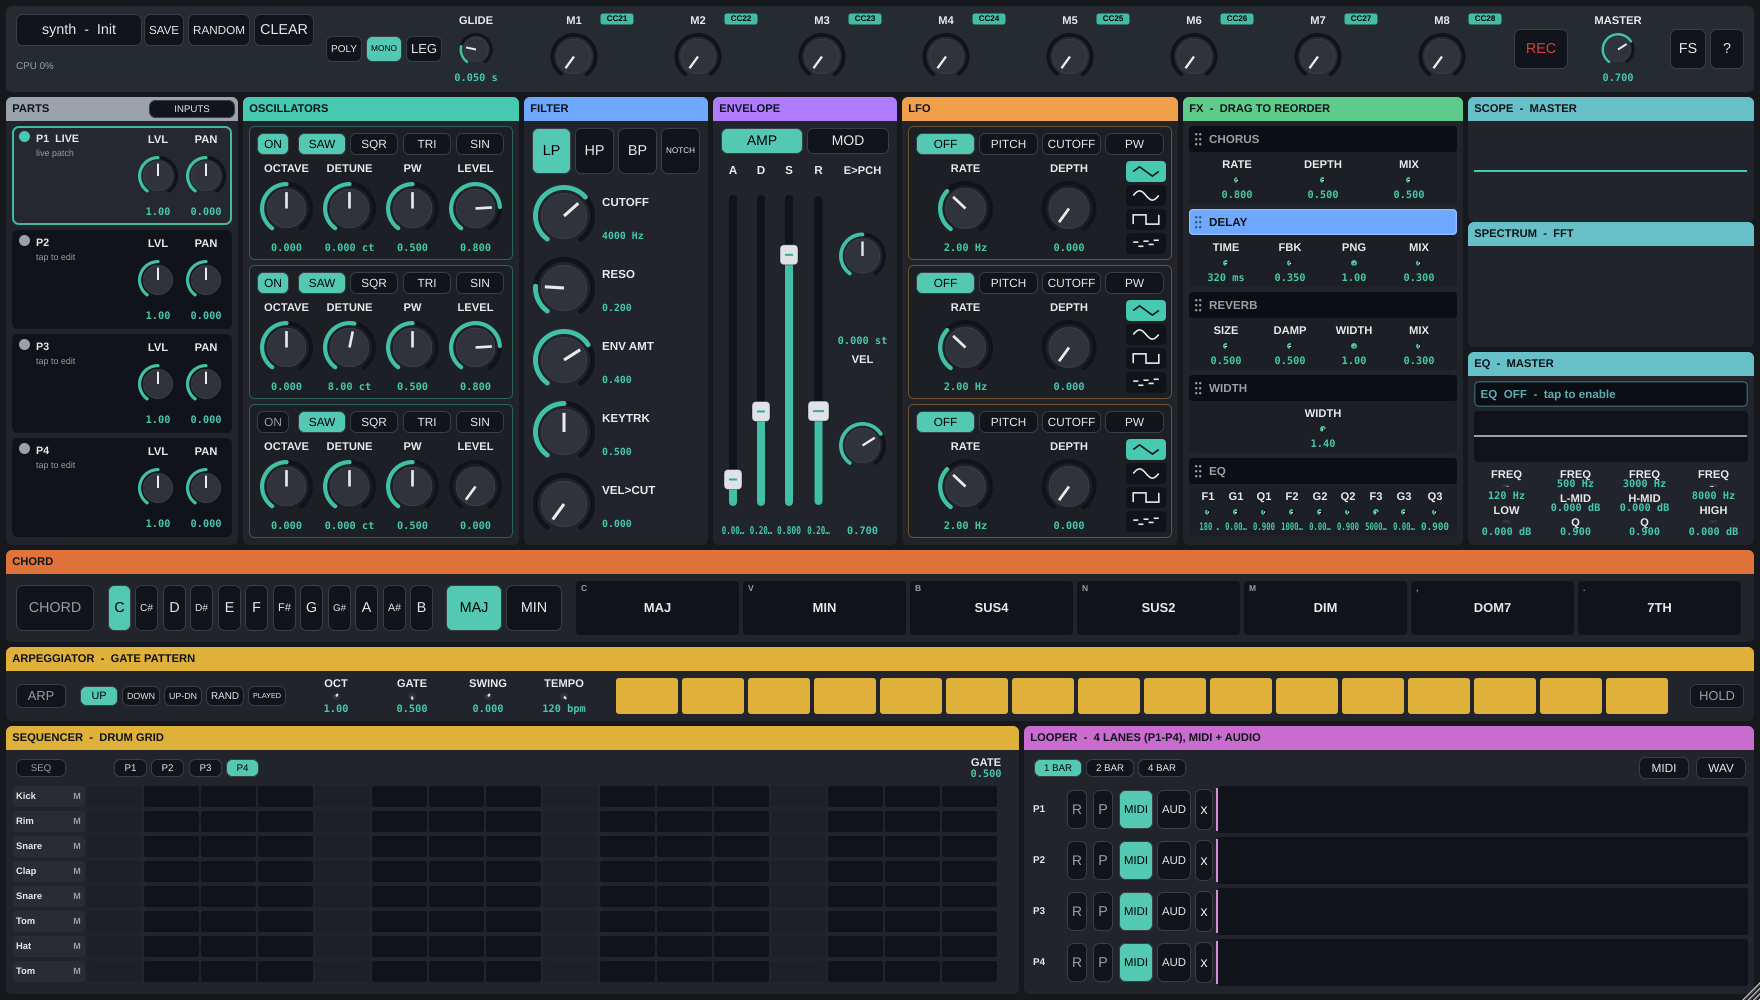
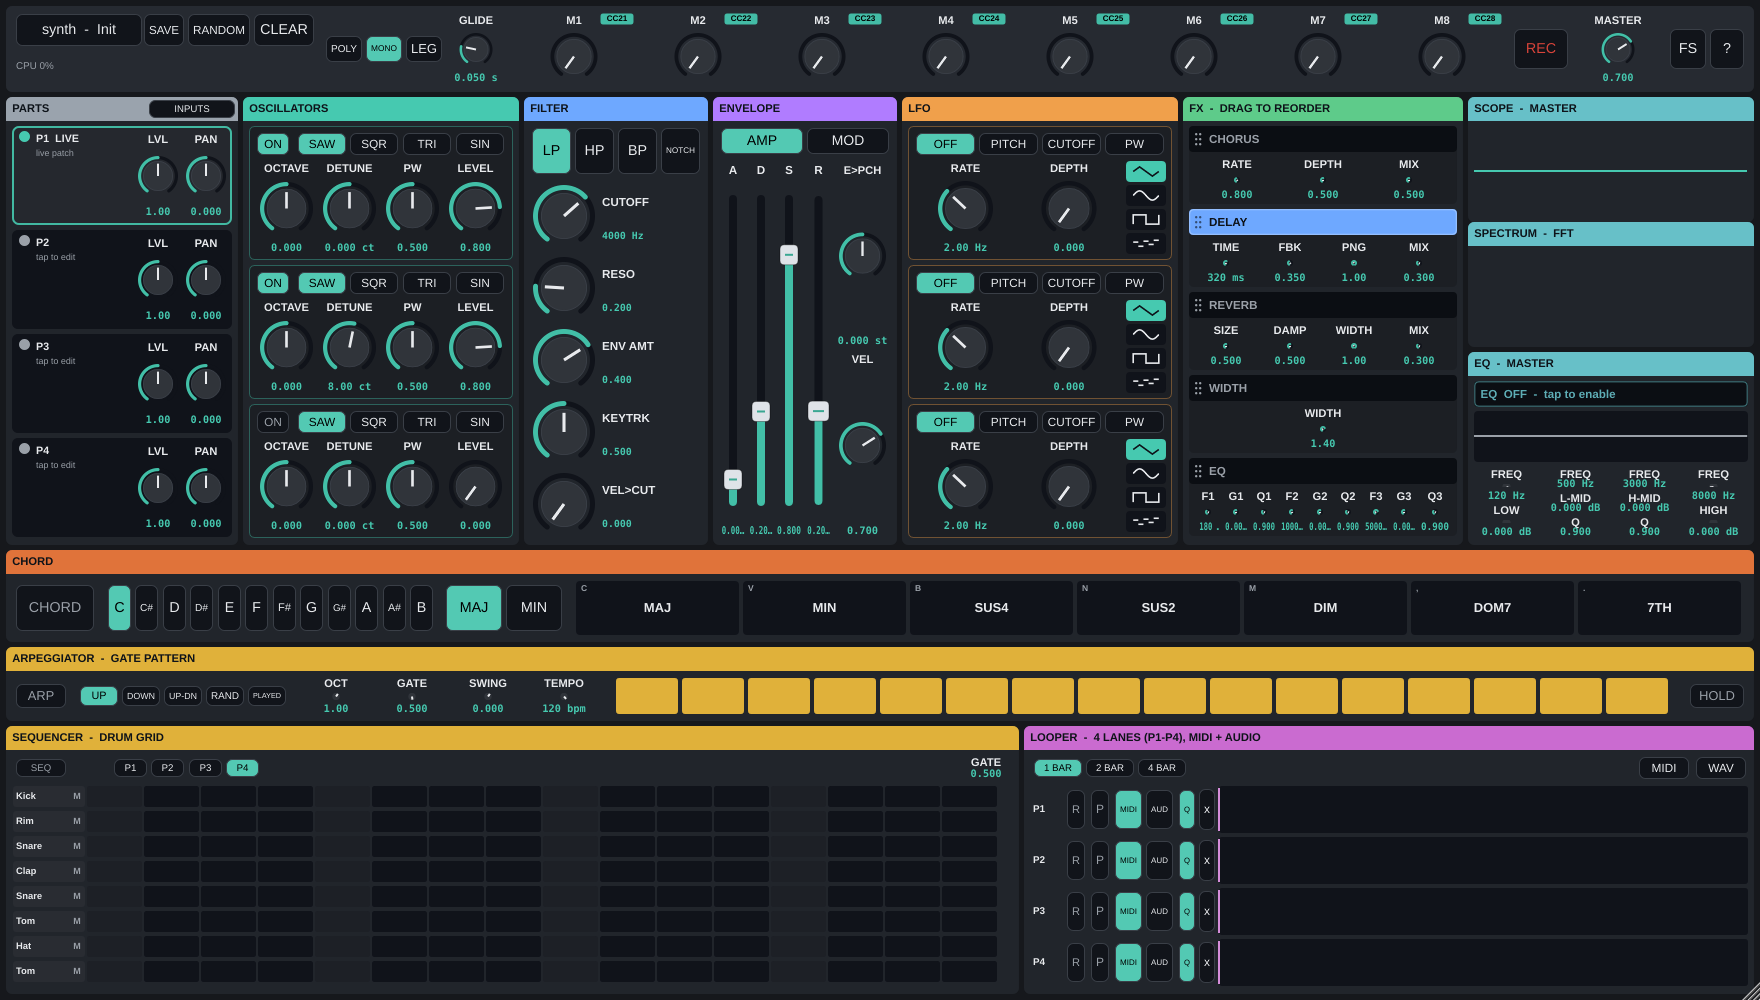
looper(#53 B): 1/32 MIDI quantize at capture (per-lane, default on)
Recorded MIDI note timestamps snap to a 1/32 grid (samplesPerStep/2) at capture,
against the now-aligned shared transport (#53 A). Per-lane toggle (loop_quant + _2/
_3/_4), default ON, with a compact "Q" button per lane row. Note pairing survives:
a note-off that snaps onto its own note-on is bumped one grid step so no zero-length
or swapped note is produced.

Tests: DSP quantize (sloppy 137 -> grid 100; off-snapped-onto-on -> +1 grid; 260 ->
300; quantize-off leaves the raw timestamp). Full gate (319) green; goldens intact.

Completes #53 (clock alignment + looper quantize).

Changed region(s): [[0.5938, 0.775, 0.7188, 0.992]]

diff --git a/Source/UI/BottomZones.h b/Source/UI/BottomZones.h
@@ -230,6 +230,7 @@ public:
         const char* const recIds[]  { ParamID::loopRec,  ParamID::loopRec2,  ParamID::loopRec3,  ParamID::loopRec4 };
         const char* const playIds[] { ParamID::loopPlay, ParamID::loopPlay2, ParamID::loopPlay3, ParamID::loopPlay4 };
         const char* const modeIds[] { ParamID::loopMode, ParamID::loopMode2, ParamID::loopMode3, ParamID::loopMode4 };
+        const char* const quantIds[]{ ParamID::loopQuant, ParamID::loopQuant2, ParamID::loopQuant3, ParamID::loopQuant4 };
 
         auto styleBtn = [] (juce::TextButton& b)
         {
@@ -244,7 +245,9 @@ public:
             playBtn[(std::size_t) i] = std::make_unique<PowerToggle> (p.apvts, playIds[(std::size_t) i], "P");
             modeSel[(std::size_t) i] = std::make_unique<HSelector> (p.apvts, modeIds[(std::size_t) i], p.getMidiLearn(),
                                                                     juce::StringArray { "MIDI", "AUD" });
-            addAndMakeVisible (*recBtn[(std::size_t) i]); addAndMakeVisible (*playBtn[(std::size_t) i]); addAndMakeVisible (*modeSel[(std::size_t) i]);
+            quantBtn[(std::size_t) i] = std::make_unique<PowerToggle> (p.apvts, quantIds[(std::size_t) i], "Q");   // 1/32 quantize
+            addAndMakeVisible (*recBtn[(std::size_t) i]); addAndMakeVisible (*playBtn[(std::size_t) i]);
+            addAndMakeVisible (*modeSel[(std::size_t) i]); addAndMakeVisible (*quantBtn[(std::size_t) i]);
             auto& cb = clearBtn[(std::size_t) i];
             cb.setButtonText ("x"); styleBtn (cb);
             cb.onClick = [this, i] { proc.clearLoopLane (i); };
@@ -326,10 +329,11 @@ public:
         {
             auto row = c.removeFromTop (rh); c.removeFromTop (4);
             labelRect[(std::size_t) i] = row.removeFromLeft (34);
-            recBtn[(std::size_t) i]->setBounds  (row.removeFromLeft (26).reduced (1, 2));
-            playBtn[(std::size_t) i]->setBounds (row.removeFromLeft (26).reduced (1, 2));
-            modeSel[(std::size_t) i]->setBounds (row.removeFromLeft (juce::jmin (78, row.getWidth() - 40)).reduced (1, 2));
-            clearBtn[(std::size_t) i].setBounds (row.removeFromLeft (20).reduced (1, 3));
+            recBtn[(std::size_t) i]->setBounds  (row.removeFromLeft (24).reduced (1, 2));
+            playBtn[(std::size_t) i]->setBounds (row.removeFromLeft (24).reduced (1, 2));
+            modeSel[(std::size_t) i]->setBounds (row.removeFromLeft (juce::jmin (64, row.getWidth() - 60)).reduced (1, 2));
+            quantBtn[(std::size_t) i]->setBounds (row.removeFromLeft (22).reduced (1, 2));
+            clearBtn[(std::size_t) i].setBounds (row.removeFromLeft (18).reduced (1, 3));
             row.removeFromLeft (3);
             laneStrip[(std::size_t) i] = row;
         }
@@ -384,7 +388,7 @@ private:
     void timerCallback() override { repaint(); }
 
     VASynthProcessor& proc;
-    std::array<std::unique_ptr<PowerToggle>, kLanes> recBtn, playBtn;
+    std::array<std::unique_ptr<PowerToggle>, kLanes> recBtn, playBtn, quantBtn;
     std::array<std::unique_ptr<HSelector>, kLanes> modeSel;
     std::array<juce::TextButton, kLanes> clearBtn;
     std::unique_ptr<HSelector> sync;

diff --git a/Source/DSP/Looper.h b/Source/DSP/Looper.h
@@ -47,6 +47,12 @@ public:
     int  eventCount (int part) const { return (part >= 0 && part < kParts) ? parts[(std::size_t) part].count : 0; }
     const Event& event (int part, int i) const { return parts[(std::size_t) part].ev[(std::size_t) i]; }
 
+    // Quantize (task #53): snap recorded note timestamps to a grid (1/32 = samplesPerStep/2).
+    // Per-lane on/off; the grid is shared (from tempo). Default on.
+    void setQuantizeGrid (int gridSamples) { quantGrid = gridSamples > 0 ? gridSamples : 0; }
+    void setQuantize (int part, bool on) { if (part >= 0 && part < kParts) quantize_[(std::size_t) part] = on; }
+    bool quantize (int part) const { return part >= 0 && part < kParts && quantize_[(std::size_t) part]; }
+
     // Record an incoming performance note at (loop position + block offset). Lane N records
     // only while ITS OWN REC is armed (part is the note's routed part — fixed, not focus).
     void recordNote (int part, int offsetInBlock, int note, float vel, bool on)
@@ -54,7 +60,15 @@ public:
         if (part < 0 || part >= kParts || ! recording_[(std::size_t) part]) return;
         auto& p = parts[(std::size_t) part];
         if (p.count >= kMaxEvents) return;
-        const int t = (loopPos + (offsetInBlock < 0 ? 0 : offsetInBlock)) % loopLen;
+        int t = (loopPos + (offsetInBlock < 0 ? 0 : offsetInBlock)) % loopLen;
+        if (quantize_[(std::size_t) part] && quantGrid > 0 && note >= 0 && note < 128)
+        {
+            const int g = quantGrid;
+            t = (((t + g / 2) / g) * g) % loopLen;                      // snap to the nearest grid line
+            if (on) lastOnT[(std::size_t) part][(std::size_t) note] = t;
+            else if (lastOnT[(std::size_t) part][(std::size_t) note] == t)
+                t = (t + g) % loopLen;                                  // note-off snapped onto its on -> +1 grid (no zero-length)
+        }
         p.ev[(std::size_t) p.count++] = { t, note, vel, on, false };
     }
 
@@ -94,4 +108,7 @@ private:
     int  loopPos = 0;
     std::array<bool, kParts> recording_ { };
     std::array<bool, kParts> playing_ { };
+    std::array<bool, kParts> quantize_ { { true, true, true, true } };   // per-lane 1/32 quantize (default on)
+    int quantGrid = 0;                                                   // grid in samples (0 = off; set from tempo)
+    std::array<std::array<int, 128>, kParts> lastOnT {};                 // snapped pos of last note-on (pairing guard)
 };

diff --git a/Source/PluginProcessor.cpp b/Source/PluginProcessor.cpp
@@ -1594,10 +1594,14 @@ void VASynthProcessor::processBlock (juce::AudioBuffer<float>& buffer,
         const int loopLen = juce::jmax (1, (int) (sr * 60.0 / bpm * 4.0 * bars));   // 4 beats/bar
         looper.setLoopLength (loopLen);                              // MIDI grid: full length at any tempo
 
+        // 1/32-note quantize grid (shared, from tempo): half a 16th step.
+        looper.setQuantizeGrid ((int) juce::jmax (1.0, samplesPerStep * 0.5));
+
         // Per-lane transport param IDs (lane N == part N; lane 1 keeps the original IDs).
         static const char* const recIds[]  { ParamID::loopRec,  ParamID::loopRec2,  ParamID::loopRec3,  ParamID::loopRec4 };
         static const char* const playIds[] { ParamID::loopPlay, ParamID::loopPlay2, ParamID::loopPlay3, ParamID::loopPlay4 };
         static const char* const modeIds[] { ParamID::loopMode, ParamID::loopMode2, ParamID::loopMode3, ParamID::loopMode4 };
+        static const char* const quantIds[]{ ParamID::loopQuant, ParamID::loopQuant2, ParamID::loopQuant3, ParamID::loopQuant4 };
 
         for (int lane = 0; lane < SynthEngine::maxParts; ++lane)
         {
@@ -1628,6 +1632,7 @@ void VASynthProcessor::processBlock (juce::AudioBuffer<float>& buffer,
             }
             loopRecJustEngaged[L] = false;
 
+            looper.setQuantize  (lane, rp (apvts, quantIds[L]) > 0.5f);   // per-lane 1/32 quantize
             looper.setRecording (lane, loopRecording[L]);           // this lane records its own part
             al.setRecording     (loopRecording[L]);
             looper.setPlaying   (lane, playReq && ! audioMode);     // MIDI lane audible for this part

diff --git a/Source/Parameters.h b/Source/Parameters.h
@@ -190,6 +190,7 @@ namespace ParamID
     inline constexpr auto loopRec2 = "loop_rec2", loopRec3 = "loop_rec3", loopRec4 = "loop_rec4";
     inline constexpr auto loopPlay2 = "loop_play2", loopPlay3 = "loop_play3", loopPlay4 = "loop_play4";
     inline constexpr auto loopMode2 = "loop_mode2", loopMode3 = "loop_mode3", loopMode4 = "loop_mode4";
+    inline constexpr auto loopQuant = "loop_quant", loopQuant2 = "loop_quant2", loopQuant3 = "loop_quant3", loopQuant4 = "loop_quant4";   // per-lane 1/32 quantize (default on)
 
     // Step sequencer (R3 Group 2). 8-row drum grid; shares tempo/swing with the arp.
     inline constexpr auto seqOn       = "seq_on";
@@ -389,6 +390,8 @@ inline juce::AudioProcessorValueTreeState::ParameterLayout createParameterLayout
         params.push_back(std::make_unique<Pb>(juce::ParameterID{pl, 1}, juce::String (pl), false));
     for (auto* mo : { ID::loopMode2, ID::loopMode3, ID::loopMode4 })
         params.push_back(std::make_unique<Pc>(juce::ParameterID{mo, 1}, juce::String (mo), juce::StringArray{ "MIDI", "AUDIO" }, 0));
+    for (auto* q : { ID::loopQuant, ID::loopQuant2, ID::loopQuant3, ID::loopQuant4 })   // 1/32 quantize, default ON
+        params.push_back(std::make_unique<Pb>(juce::ParameterID{q, 1}, juce::String (q), true));
 
     // --- Step sequencer (R3 Group 2) -----------------------------------------
     params.push_back(std::make_unique<Pb>(juce::ParameterID{ID::seqOn, 1},   "Seq", false));

diff --git a/tests/dsp/test_looper.cpp b/tests/dsp/test_looper.cpp
@@ -70,3 +70,23 @@ TEST_CASE ("looper: PLAY off is silent; CLEAR wipes", "[dsp][looper]")
     REQUIRE_FALSE (lp.hasContent (0));
     REQUIRE (cycle (lp, 50).empty());
 }
+
+TEST_CASE ("looper: 1/32 quantize snaps sloppy input to the grid, keeps note pairing", "[dsp][looper][quant]")
+{
+    Looper lp; lp.setLoopLength (1600); lp.setRecording (0, true);
+    lp.setQuantizeGrid (100);            // 1/32 == 100 samples
+    lp.setQuantize (0, true);
+
+    lp.recordNote (0, 137, 60, 0.8f, true);   // sloppy on: 137 -> nearest grid 100
+    REQUIRE (lp.event (0, 0).t == 100);
+    lp.recordNote (0, 137, 60, 0.0f, false);  // off snaps onto the on -> +1 grid (no zero-length)
+    REQUIRE (lp.event (0, 1).t == 200);
+    lp.recordNote (0, 260, 62, 0.8f, true);   // 260 -> nearest grid 300
+    REQUIRE (lp.event (0, 2).t == 300);
+
+    // Quantize off: the timestamp is left exactly where it was played.
+    Looper raw; raw.setLoopLength (1600); raw.setRecording (0, true);
+    raw.setQuantizeGrid (100); raw.setQuantize (0, false);
+    raw.recordNote (0, 137, 60, 0.8f, true);
+    REQUIRE (raw.event (0, 0).t == 137);
+}

diff --git a/CHANGELOG.md b/CHANGELOG.md
@@ -9,6 +9,10 @@ follow [Semantic Versioning](https://semver.org/spec/v2.0.0.html).
 Post-1.0 work on `master` (not yet tagged; the ThinkPad validation is the final pre-tag gate).
 
 ### Changed
+- **Clock alignment:** the sequencer, arpeggiator and looper now share one transport origin
+  (the loop clock), re-anchoring to the bar downbeat every bar — the seq no longer leads the
+  arp/looper. Swing self-accumulates within the bar. Looper MIDI recording is quantized to a
+  1/32 grid (per-lane toggle, default on) with note-pairing protection.
 - **Looper is now 4 fixed per-part lanes** (lane N ↔ part N), each with its own
   REC/PLAY/CLEAR/MIDI-AUDIO transport and its own audio ring. Capture is by lane (part N),
   fully decoupled from the edit/play focus (switching focus no longer disturbs the looper).
